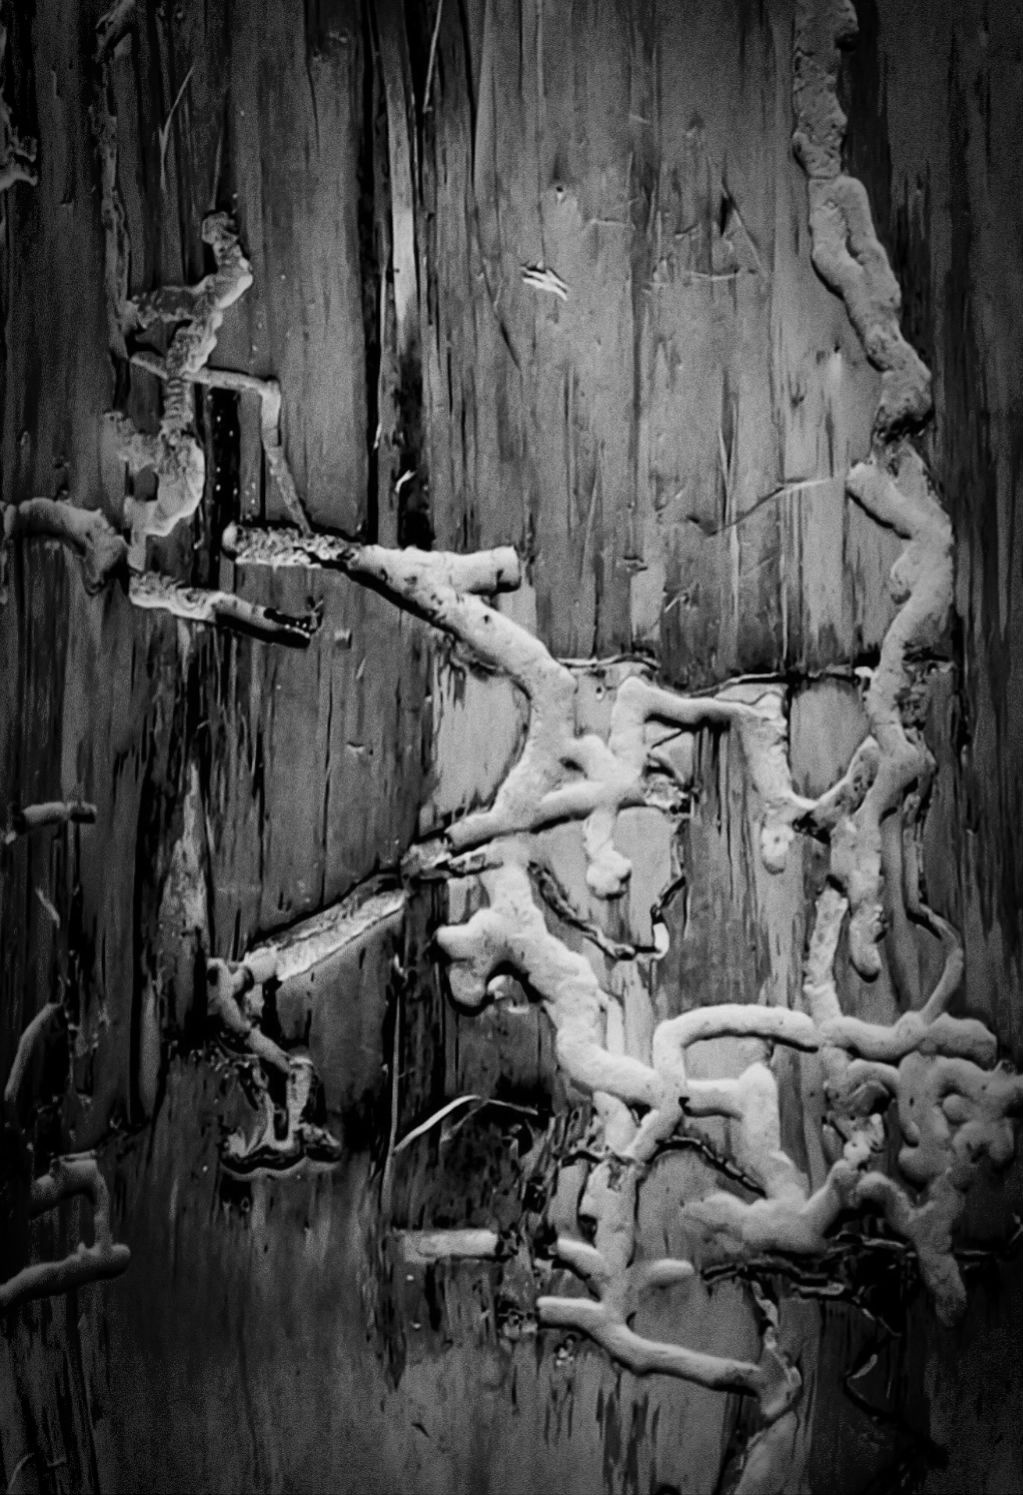
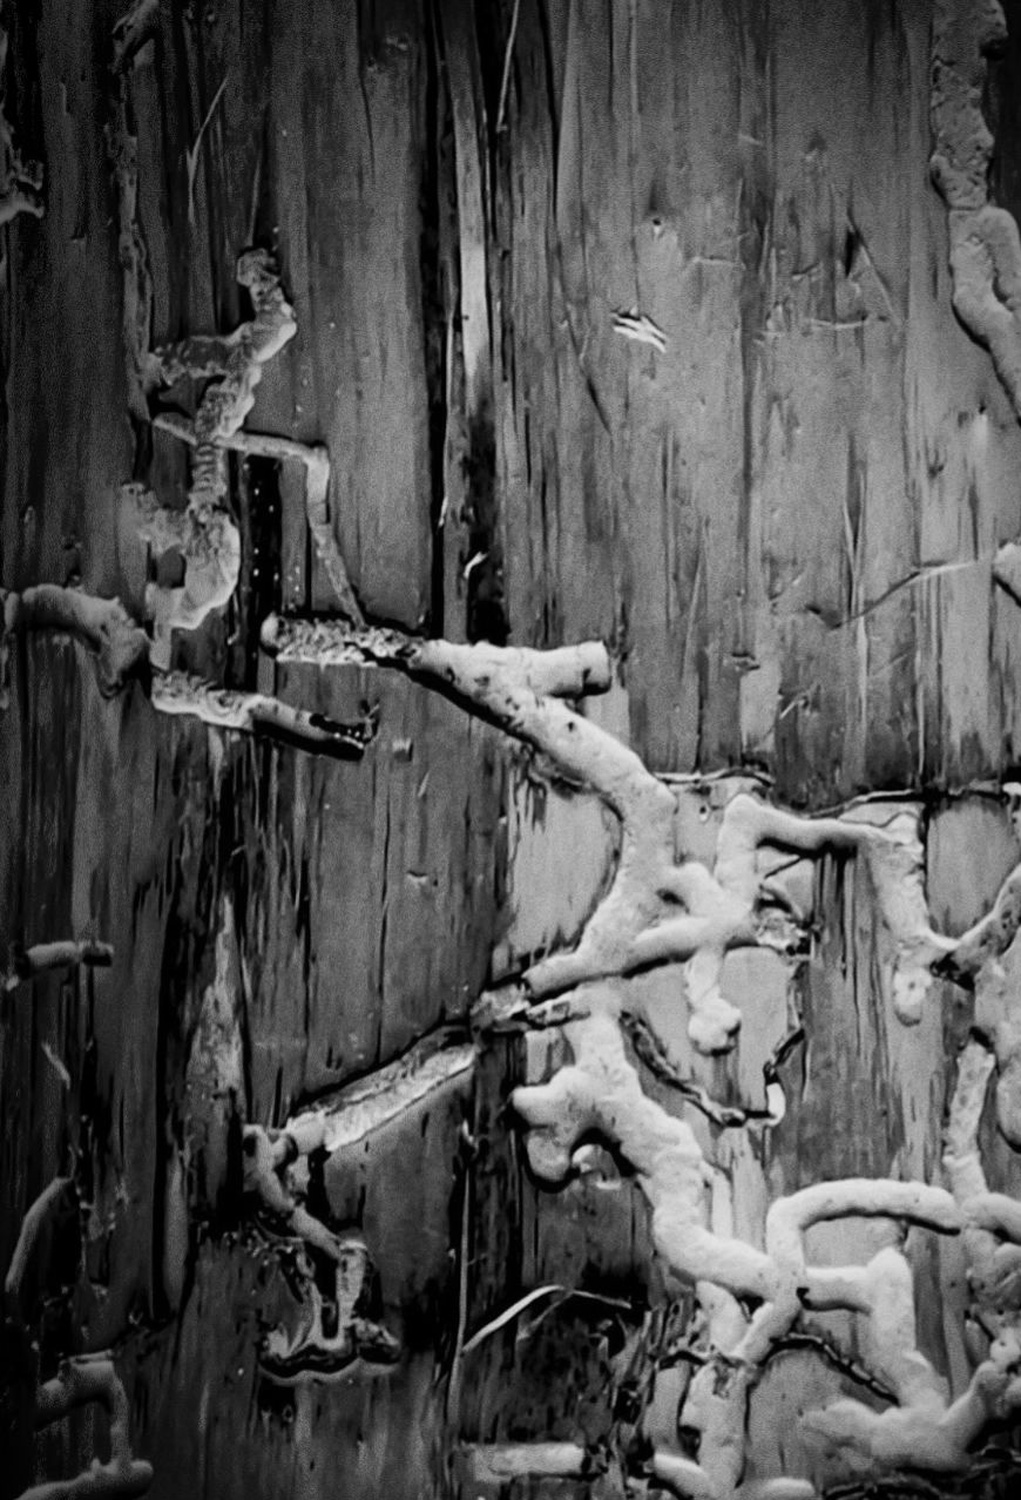
Relative: tighter crop on the Striation bark
Crop the land image of Relative 04, Striation to the upper-left 85%
of the frame so the vertical grain leads and less of the branching
cast mass at the bottom shows. Scaled to 1021x1500 to match the body
image exactly.

Claude-Session: https://claude.ai/code/session_012LDqrjzSaQkNAdRihkRpQ9

diff --git a/lib/image-sizes.ts b/lib/image-sizes.ts
@@ -271,7 +271,7 @@ export const imageSizes: Record<string, [number, number]> = {
   "/art/relative/relative-03-gravity-a.jpg": [1021, 1500],
   "/art/relative/relative-03-gravity-b.jpg": [1021, 1500],
   "/art/relative/relative-04-striation-a.jpg": [1021, 1500],
-  "/art/relative/relative-04-striation-b.jpg": [1023, 1495],
+  "/art/relative/relative-04-striation-b.jpg": [1021, 1500],
   "/art/relative/relative-04A.jpg": [909, 885],
   "/art/relative/relative-04B.jpg": [909, 885],
   "/art/relative/relative-05-ramification-a.jpg": [1022, 1500],
